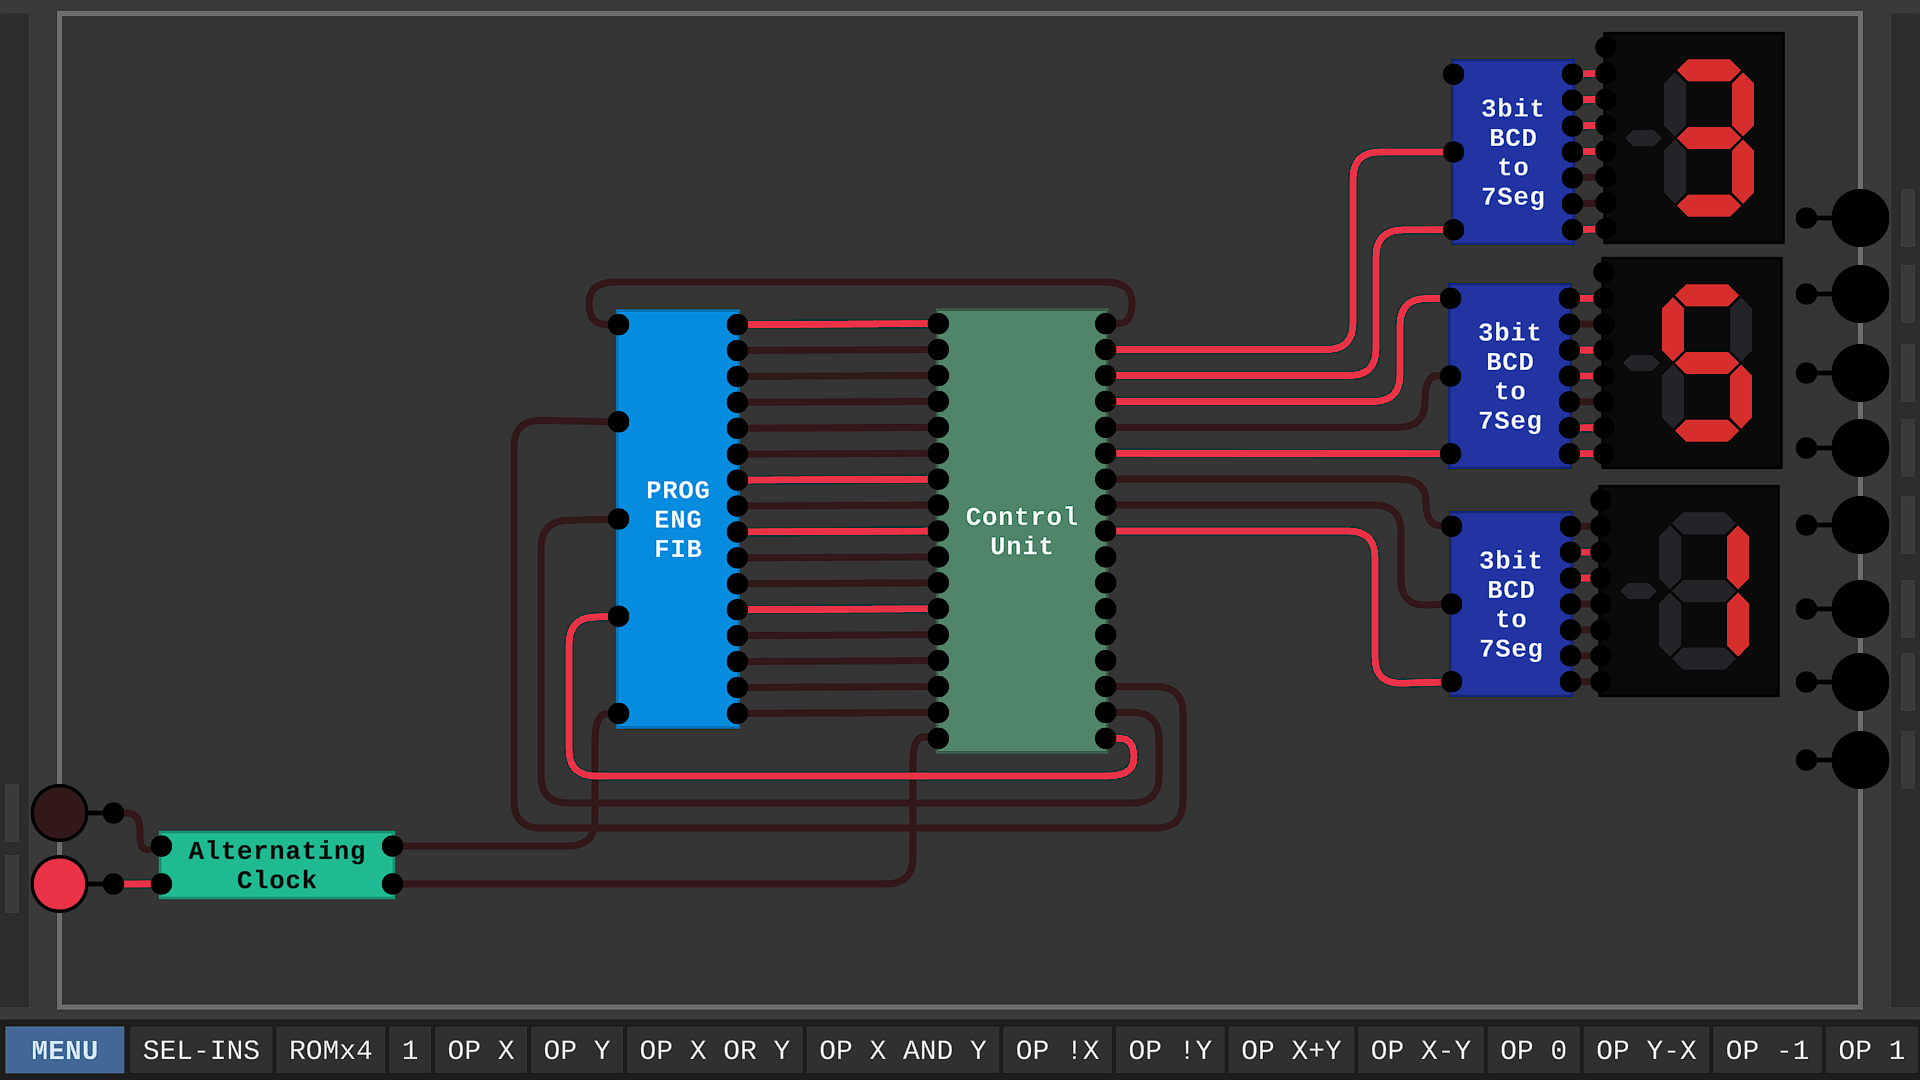
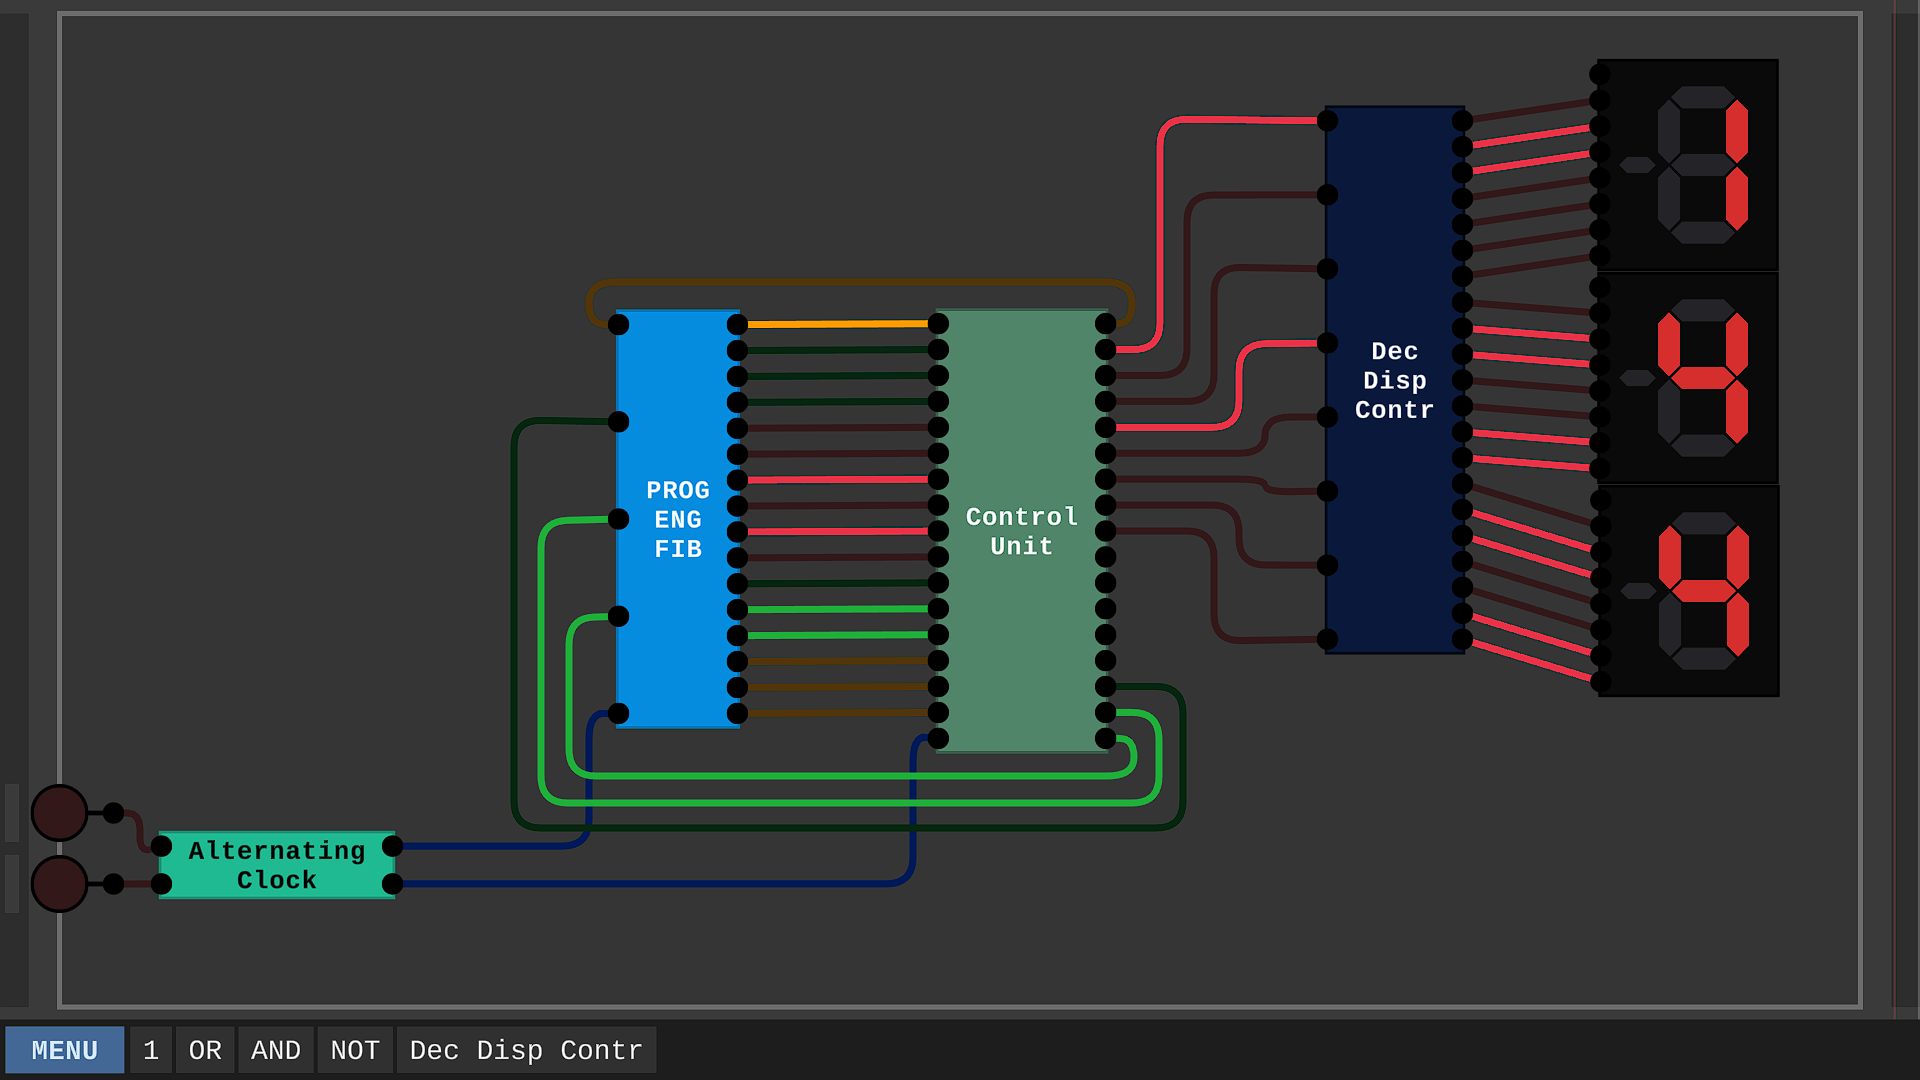
Added decimal display

diff --git a/README.md b/README.md
@@ -5,7 +5,7 @@ This is a project built in Sebastian Lagues [Digital-Logic-Sim](https://sebastia
 
 The architecture of this computer is based on the architecture of the computer realized in [Nandgame](https://www.nandgame.com/), but it has more registers, RAM and ROM.
 
-![Main Component showing an output of 351, which is a fibonacci number in octal notation](images/Computer.png "Main Component showing an output of 351, which is a fibonacci number in octal notation")
+![Main Component showing an output of 144, the 12th fibonacci number](images/Computer.png "Main Component showing an output of 144, the 12th fibonacci number")
 
 ## Specifications
 - Precision: 8bit
@@ -14,12 +14,12 @@ The architecture of this computer is based on the architecture of the computer r
 - ROM: 8 Instructions (16 Bytes)
 - General Purpose Registers: 4 (4 Bytes)
 - Output-Register: 1 (1 Byte)
-- Output: 3 digit octal display
+- Output: 3 digit decimal display (can be swapped for an octal display)
 
 RAM and ROM could potentially be expanded, but these dimensions were sufficient for the demo program. In fact, the RAM is not used at all by the demo.
 
 ## How to run
-Load the Component "COMPUTER FIB" and the demo program will start to run. You can control the speed of the clock via the two inputs on the left. The computed fibonacci series numbers will be displayed on the three 7-segment-displays as octal numbers.
+Load the Component "COMPUTER FIB" and the demo program will start to run. You can control the speed of the clock via the two inputs on the left. The computed fibonacci series numbers will be displayed on the three 7-segment-displays.
 
 ## How to Program the computer
 The computer can be programmed by changing the contents of the ROM. Currently, the ROM is contained in the components "ROM FIB 0-3" and "ROM FIB 4-7" which hold the code for the demo program. Each ROM component holds 4 Instructions, which have to be read in the order bottom right, top right, bottom left, top left. This is due to the how the "Instr Select" components work. I may flip this in the future to make it easier to read.
@@ -56,8 +56,8 @@ Arithmetic Logical Unit:
 Instruction Decoder:
 ![Instruction Decoder](images/InstructionDecoder.png "Instruction Decoder")
 
-3bit BCD to 7-Segment Decoder:
-![3bit BCD to 7-Segment Decoder](images/3bit_BCD_to_7Seg.png "3bit BCD to 7-Segment Decoder")
+3bit to 7-Segment Decoder:
+![3bit to 7-Segment Decoder](images/3bit_to_7Seg.png "3bit to 7-Segment Decoder")
 
 A-Register allows indirect adressing of RAM-contents:
 ![A-Register allows indirect adressing of RAM-contents](images/A_Register.png "A-Register allows indirect adressing of RAM-contents")
